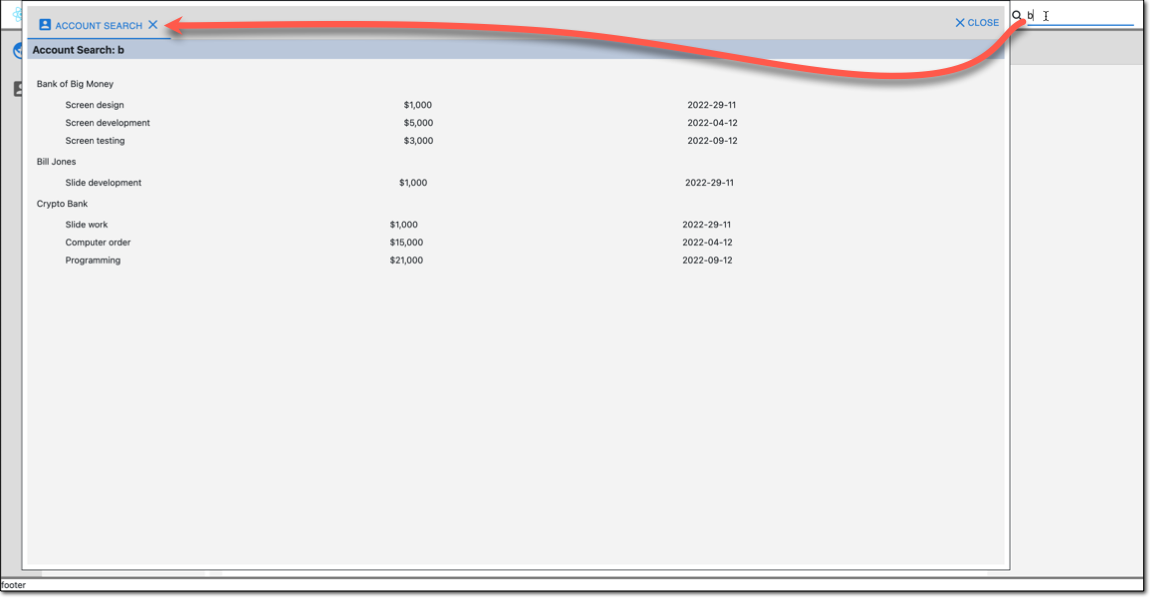
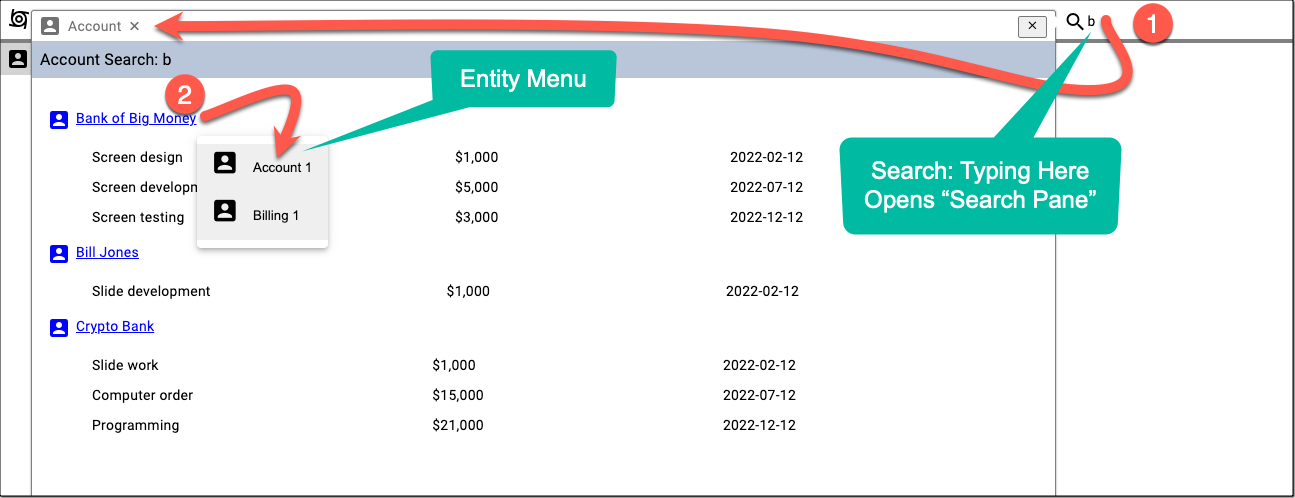
feat(@porrtal-components/a-quick-start-material): docs for search view

diff --git a/libs/porrtal-components/a-quick-start-material/porrtal-components-a-quick-start-material/create-a-search-component/create-a-search-component.md b/libs/porrtal-components/a-quick-start-material/porrtal-components-a-quick-start-material/create-a-search-component/create-a-search-component.md
@@ -4,66 +4,104 @@ To help your users find what they seek, you can register your components as "Sea
 
 NOTE: If there are no registered search views, the search textbox will be hidden.
 
-### Create `AccountSearch.tsx` file in the `Account` folder.
+### Create `AccountSearch` Component in the `account` folder.
 
-```tsx
-import { useDebouncedSearchText } from '@porrtal/r-shell';
-import { ViewComponentProps } from '@porrtal/r-api';
-import { accountData } from '../Data/AccountData';
-import Moment from 'moment';
-import { Fragment } from 'react';
-import "./AccountSearch.css";
-
-export function AccountSearch(props: ViewComponentProps) {
-  const searchText = useDebouncedSearchText();
-  return (
-    <div className="AccountSearch_container">
-      <h3 className="AccountSearch_title">Account Search: {searchText}</h3>
-      <div className="AccountSearch_data-container">
-        {accountData
-          .filter((account) => {
-            return (
-              JSON.stringify(account)
-                .toLowerCase()
-                .indexOf(searchText.toLowerCase()) >= 0
-            );
-          })
-          .map((account) => (
-            <Fragment key={account.accountId}>
-              <div>{account.name}</div>
-              <div className="AccountSearch_orders-data-container">
-                {account?.orders.map((order, index) => (
-                  <Fragment key={index}>
-                    <span>{order.item}</span>
-                    <span>
-                      {'$' +
-                        order.amount
-                          .toFixed(0)
-                          .replace(/(\d)(?=(\d{3})+(?!\d))/g, '$1,')}
-                    </span>
-                    <span>{Moment(order.date).format('YYYY-DD-MM')}</span>
-                  </Fragment>
-                ))}
-              </div>
-            </Fragment>
-          ))}
-      </div>
-    </div>
-  );
-}
-
-export default AccountSearch;
+```bash
+ng generate component account/account-search --standalone
 ```
 
-### Create `AccountSearch.css` file in the `Account` folder
+### Register `AccountSearch` "Search View" in `app.component.ts`
+
+```ts
+import { Component } from '@angular/core';
+import { BannerData, ShellStateService } from '@porrtal/a-shell';
+import { View } from '@porrtal/a-api';
+
+const views: View[] = [
+  {
+    key: 'AccountNav',
+    launchAtStartup: true,
+    displayText: 'Account Navigation',
+    paneType: 'nav',
+    displayIcon: 'account_box',
+    componentName: 'AccountNavComponent',
+    componentModule: () =>
+      import('./account/account-nav/account-nav.component'),
+  },
+  {
+    displayText: 'Create Account',
+    displayIcon: 'account_box',
+    componentName: 'NewAccountComponent',
+    componentModule: () =>
+      import('./account/new-account/new-account.component'),
+  },
+  {
+    key: 'Account {accountId}',
+    displayText: 'Account {accountId}',
+    displayIcon: 'account_box',
+    componentName: 'AccountDetailComponent',
+    entityType: 'account',
+    componentModule: () =>
+      import('./account/account-detail/account-detail.component'),
+  },
+  {
+    key: 'Billing {accountId}',
+    displayText: 'Billing {accountId}',
+    displayIcon: 'account_box',
+    componentName: 'AccountBillingHistoryComponent',
+    entityType: 'account',
+    componentModule: () =>
+      import(
+        './account/account-billing-history/account-billing-history.component'
+      ),
+  },
+  {
+    key: 'AccountSearch',
+    launchAtStartup: true,
+    displayText: 'Account',
+    paneType: 'search',
+    displayIcon: 'account_box',
+    componentName: 'AccountSearchComponent',
+    componentModule: () =>
+      import('./account/account-search/account-search.component'),
+  },
+];
+
+@Component({
+  selector: 'app-root',
+  templateUrl: './app.component.html',
+  styleUrls: ['./app.component.css'],
+})
+export class AppComponent {
+  public bannerData: BannerData = {
+    displayText: '@porrtal angular material quick start',
+    displayIcon: 'cyclone',
+  };
+
+  constructor(public shellStateService: ShellStateService) {
+    views.forEach((view) =>
+      shellStateService.dispatch({
+        type: 'registerView',
+        view,
+      })
+    );
+
+    shellStateService.dispatch({
+      type: 'launchStartupViews',
+    });
+  }
+}
+```
+
+### Update `account-search.component.css` file
 
 ```css
-.AccountSearch_container {
+.container {
   display: grid;
   grid-template-columns: 1fr;
 }
 
-.AccountSearch_title {
+.title {
   background-color: rgb(185, 199, 218);
   margin: 0;
   padding-top: 5px;
@@ -72,13 +110,13 @@ export default AccountSearch;
   grid-column: 1 / -1;
 }
 
-.AccountSearch_data-container {
+.data-container {
   margin-left: 15px;
   margin-right: 15px;
   margin-top: 30px;
 }
 
-.AccountSearch_orders-data-container {
+.orders-data-container {
   display: grid;
   justify-self: start;
   gap: 10px;
@@ -89,106 +127,95 @@ export default AccountSearch;
   margin-bottom: 15px;
 }
 
-.AccountSearch_link-button {
+.link-button {
   color: blue;
   text-decoration: underline;
   cursor: pointer;
 }
 ```
 
-### Update `App.tsx`
+### Update `account-search.component.html`
 
-```tsx
-import { View } from "@porrtal/r-api";
-import { BannerData, ShellState } from "@porrtal/r-shell";
-import { ShellMaterial } from "@porrtal/r-shell-material";
-
-import "./App.css";
-
-function App() {
-  const porrtalViews: View[] = [
-    {
-      key: "AccountNav",
-      launchAtStartup: true,
-      displayText: "Account Navigation",
-      paneType: "nav",
-      displayIcon: "account_box",
-      componentName: "AccountNav",
-      componentModule: () => import("./Account/AccountNav"),
-    },
-    {
-      viewId: "NewAccount",
-      key: "NewAccount",
-      displayText: "New Account",
-      paneType: "main",
-      displayIcon: "add",
-      componentName: "NewAccount",
-      componentModule: () => import("./Account/NewAccount"),
-    },
-    {
-      viewId: "AccountDetail",
-      key: 'Account Detail {accountId}',
-      displayText: 'Account Detail {accountId}',
-      paneType: "main",
-      displayIcon: "mugshot",
-      componentName: "AccountDetail",
-      entityType: "account",
-      componentModule: () => import("./Account/AccountDetail"),
-    },
-    {
-      viewId: "AccountBilling",
-      key: 'Account Billing {accountId}',
-      displayText: 'Account Billing {accountId}',
-      paneType: "main",
-      displayIcon: "mugshot",
-      componentName: "AccountBilling",
-      entityType: "account",
-      componentModule: () => import("./Account/AccountBilling"),
-    },
-    {
-      key: 'AccountSearch',
-      launchAtStartup: true,
-      displayText: 'Account Search',
-      paneType: 'search',
-      displayIcon: "mugshot",
-      componentName: 'AccountSearch',
-      componentModule: () => import("./Account/AccountSearch"),
-    },
-  ];
-  const porrtalBanner: BannerData = {
-    displayText: "My Quick Start App",
-    displayIcon: "construction",
-    childData: []
-  };
-  return (
-    <ShellState views={porrtalViews}>
-      <ShellMaterial bannerData={porrtalBanner} />
-    </ShellState>
-  );
-}
-
-export default App;
+```html
+<div class="container">
+  <h3 class="title">Account Search: {{ searchText$ | async }}</h3>
+  <div class="data-container">
+    <ng-container *ngIf="filteredAccounts$ | async as accounts">
+      <ng-container *ngFor="let account of accounts">
+        <porrtal-entity-menu
+          entityType="account"
+          [state]="{ accountId: account.accountId }"
+        >
+          <span
+            class="link-button"
+            style="display: grid; grid-template-columns: 24px auto"
+          >
+            <mat-icon>account_box</mat-icon>
+            <span style="margin-left: 5px">{{ account.name }}</span>
+          </span>
+        </porrtal-entity-menu>
+        <div class="orders-data-container">
+          <ng-container *ngFor="let order of account.orders">
+            <span>{{ order.item }}</span>
+            <span>{{ formatAmount(order.amount) }}</span>
+            <span>{{ Moment(order.date).format("YYYY-DD-MM") }}</span>
+          </ng-container>
+        </div>
+      </ng-container>
+    </ng-container>
+  </div>
+</div>
 ```
 
-### Update `index.css`
+### Update `account-search.component.ts`
 
-```css
-html,
-body {
-  position: absolute;
-  top: 0;
-  left: 0;
-  bottom: 0;
-  right: 0;
-  margin: 0;
-  padding: 0;
-  font-family: ui-sans-serif, system-ui, -apple-system, BlinkMacSystemFont,
-    Segoe UI, Roboto, Helvetica Neue, Arial, Noto Sans, sans-serif,
-    Apple Color Emoji, Segoe UI Emoji, Segoe UI Symbol, Noto Color Emoji;
-}
+```ts
+import { ChangeDetectionStrategy, Component, Input } from '@angular/core';
+import { CommonModule } from '@angular/common';
+import { ViewState } from '@porrtal/a-api';
+import { map, Observable } from 'rxjs';
+import { Account, accountData } from '../../data/account-data';
+import { SearchStateService } from '@porrtal/a-shell';
+import * as Moment from 'moment';
+import { EntityMenuComponent } from '@porrtal/a-shell-material';
+import { MatIconModule } from '@angular/material/icon';
 
-html {
-  line-height: 1.5;
+@Component({
+  selector: 'app-account-search',
+  standalone: true,
+  imports: [CommonModule, MatIconModule, EntityMenuComponent],
+  templateUrl: './account-search.component.html',
+  styleUrls: ['./account-search.component.css'],
+  changeDetection: ChangeDetectionStrategy.OnPush,
+})
+export class AccountSearchComponent {
+  @Input() viewState?: ViewState;
+
+  public filteredAccounts$?: Observable<Account[]>;
+  public searchText$?: Observable<string>;
+  public Moment = Moment;
+
+  constructor(private searchStateService: SearchStateService) {
+    this.searchText$ = searchStateService.select('debouncedSearchText');
+
+    this.filteredAccounts$ = searchStateService
+      .select('debouncedSearchText')
+      .pipe(
+        map((searchText) =>
+          accountData.filter((account) => {
+            return (
+              JSON.stringify(account)
+                .toLowerCase()
+                .indexOf(searchText.toLowerCase()) >= 0
+            );
+          })
+        )
+      );
+  }
+
+  public formatAmount(amount: number) {
+    return '$' + amount.toFixed(0).replace(/(\d)(?=(\d{3})+(?!\d))/g, '$1,');
+  }
 }
 ```
 
